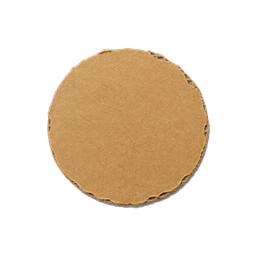
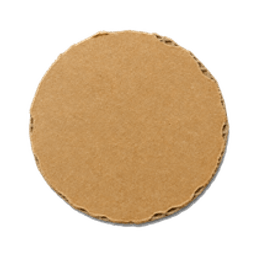
token asset scale change

Changed region(s): [[0.0938, 0.0938, 0.9062, 0.9062]]

diff --git a/src/pages/projects/DungeonRunnerPage.vue b/src/pages/projects/DungeonRunnerPage.vue
@@ -1855,8 +1855,8 @@ function importReplay() {
 
 .dr-equip-token {
   position: relative;
-  width: 84px;
-  height: 84px;
+  width: 64px;
+  height: 64px;
   flex-shrink: 0;
   border-radius: 50%;
   outline: none;